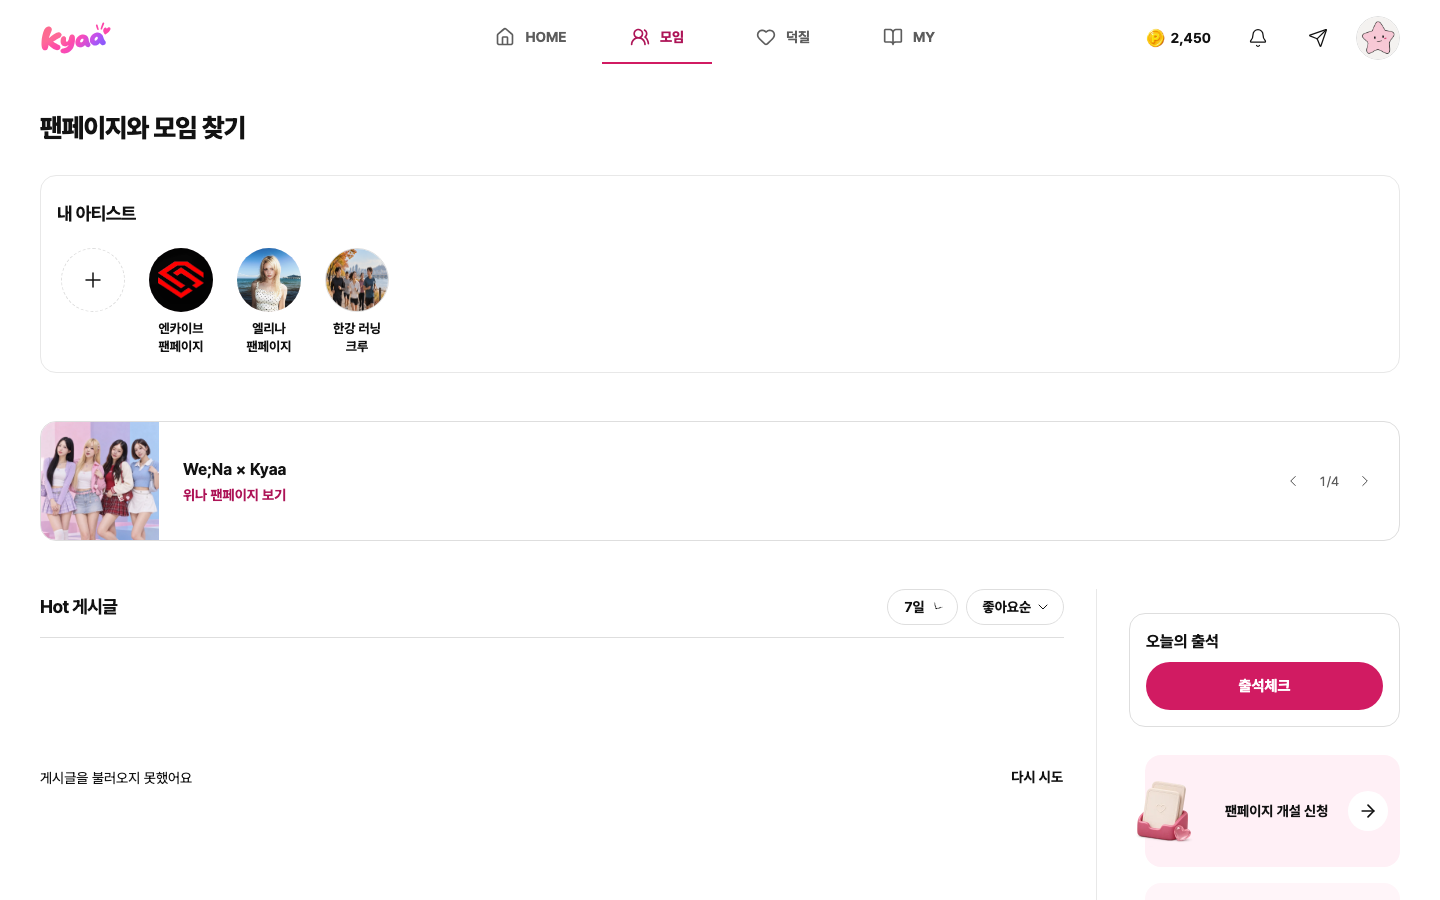
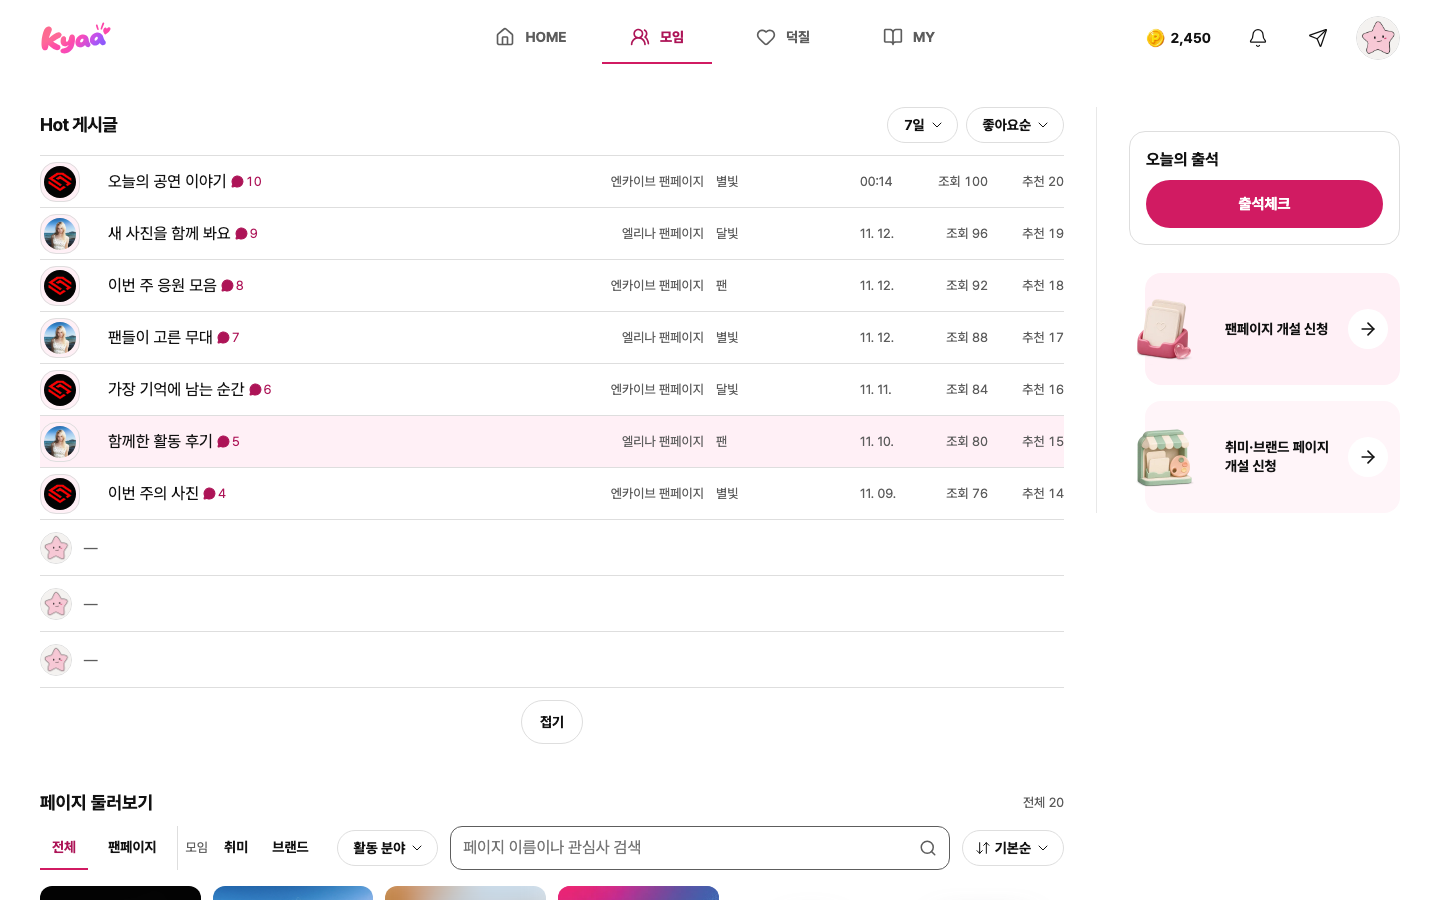
test(ui): capture populated Hot periods and unblock screen

diff --git a/apps/web/e2e/groups-local/main.tsx b/apps/web/e2e/groups-local/main.tsx
@@ -135,6 +135,14 @@ const quizProjection=(status:'open'|'failed'|'passed')=>{
 };
 let qualificationSupplementSubmitted=false,qualificationSupplementAttempts=0;
 const earningFixtures=[{entryKey:'mission:e9400000-0000-4000-8000-000000000001',kind:'mission',activityKey:'mission-1',title:'응원 사진 인증',status:'credited',asset:'fan_point',originalAmount:30,correctionAmount:null,netAmount:30,reason:null,occurredAt:'2026-11-01T09:00:00+09:00',processedAt:'2026-11-01T10:00:00+09:00',activityHref:'/pages/groups/e9200000-0000-4000-8000-000000000001/missions'},{entryKey:'mission:e9400000-0000-4000-8000-000000000002',kind:'mission',activityKey:'mission-2',title:'공연 후기 인증',status:'pending',asset:'fan_point',originalAmount:30,correctionAmount:null,netAmount:null,reason:null,occurredAt:'2026-11-02T09:00:00+09:00',processedAt:null,activityHref:'/pages/groups/e9200000-0000-4000-8000-000000000001/missions'},{entryKey:'activity:e9400000-0000-4000-8000-000000000003',kind:'activity',activityKey:'activity-3',title:'한강 러닝 인증',status:'rejected',asset:'fan_point',originalAmount:20,correctionAmount:null,netAmount:0,reason:'사진에서 활동 내용을 확인하지 못했어요.',occurredAt:'2026-11-02T12:00:00+09:00',processedAt:'2026-11-02T13:00:00+09:00',activityHref:null},{entryKey:'raffle:e9400000-0000-4000-8000-000000000004',kind:'raffle',activityKey:'raffle-4',title:'엔카이브 굿즈 추첨 응모',status:'entered',asset:'ticket',originalAmount:-3,correctionAmount:null,netAmount:-3,reason:null,occurredAt:'2026-11-03T12:00:00+09:00',processedAt:'2026-11-03T12:00:00+09:00',activityHref:null}];
+const hotFixturePosts = Array.from({length:10}, (_,i) => ({
+ source:'fan' as const,id:`e9300000-0000-4000-8000-0000000000${String(i+1).padStart(2,'0')}`,
+ pageRef:i%2?'elina':'nchive',pageName:i%2?'엘리나 팬페이지':'엔카이브 팬페이지',
+ title:['오늘의 공연 이야기','새 사진을 함께 봐요','이번 주 응원 모음','팬들이 고른 무대','가장 기억에 남는 순간','함께한 활동 후기','이번 주의 사진','지난 공연 이야기','한 달의 응원','팬페이지 소식'][i],
+ nickname:['별빛','달빛','팬'][i%3],createdAt:new Date(Date.now()-(i<3?i*3600000:i<7?(i-2)*86400000:(i-5)*5*86400000)).toISOString(),
+ likeCount:20-i,commentCount:10-i,viewCount:100-i*4,asset:null,pageImageUrl:i%2?'/images/groups/elina-pencil.jpg':'/images/groups/nchive-pencil.jpg'
+}));
+let blockedFixtureProfiles=[{profileId:'e9200000-0000-4000-8000-000000000002',closed:false,nickname:'예시 팬',avatarUrl:null,blockedAt:'2026-11-01T00:00:00Z'}];
 const receipts=new Map<string,unknown>();let points=2450,hearts=state==='insufficient'?0:2,tickets=state==='zero-tickets'?0:12,checkedIn=false,adSession:string|null=null;
 const json=(value:unknown,status=200)=>Promise.resolve(Response.json(value,{status})),realFetch=window.fetch.bind(window);
 const groupInvitationFixture=createGroupInvitationFixture({authenticated:query.get('auth')!=='off',failOnce:query.get('state')==='invite-save-failure'});
@@ -143,6 +151,9 @@ const eventOperationsFixture=createEventOperationsFixture(id,query.get('eventOps
 window.fetch=(async(input:RequestInfo|URL,init?:RequestInit)=>{
  const url=new URL(typeof input==='string'?input:input instanceof URL?input.href:input.url,location.origin);
  if(!url.pathname.startsWith('/api/'))return realFetch(input,init);
+ if(query.get('hotFixture')==='1'&&url.pathname==='/api/public/popular-posts'){const period=url.searchParams.get('period')??'week',count=period==='today'?3:period==='month'?10:7;return json({items:hotFixturePosts.slice(0,count),hasMore:false});}
+ if(query.get('s3Preview')==='1'&&url.pathname==='/api/me/social/blocks')return json({profiles:blockedFixtureProfiles});
+ if(query.get('s3Preview')==='1'&&url.pathname.startsWith('/api/me/social/blocks/')&&init?.method==='DELETE'){blockedFixtureProfiles=blockedFixtureProfiles.filter(profile=>profile.profileId!==url.pathname.split('/').at(-1));return json({ok:true});}
  (((window as unknown as {__api?:string[]}).__api??=[])).push(`${url.pathname}${url.search}`);
  if(state==='loading')return new Promise<Response>(()=>{/* review knob: keep every API request pending to capture the loading skeleton */});
  const path=url.pathname,body=init?.body?JSON.parse(String(init.body)):null;

diff --git a/apps/web/e2e/groups-local/s3-s4-captures.md b/apps/web/e2e/groups-local/s3-s4-captures.md
@@ -1,0 +1,5 @@
+# S3·S4 브라우저 검증
+
+`node apps/web/e2e/groups-local/server.mjs`로 로컬 하니스를 시작한 뒤 `apps/web`에서 `node e2e/groups-local/s3-s4-capture.mjs`를 실행합니다. 제품 컴포넌트와 CSS를 사용하며 API 응답은 공개 가능한 합성 예시입니다. 운영 회원이나 운영 게시글 화면이 아닙니다.
+
+Hot 예시 화면은 `hotFixture=1`로 기간별 3·7·10건을 표시합니다. 캡처는 `release-notes/images/2026-11-13-hot-{today,month}-{390,1440}.png`와 `2026-11-12-hot-period-{390,1440}.png`입니다. 차단 목록 예시 화면은 `s3Preview=1`로 한 명의 예시 팬을 표시하며, `2026-11-13-blocked-{390,1440}.png`에 있습니다. 스크립트는 기간별 응답 건수·실제 행·두 칩의 동일한 닫힌 chevron·차단 해제 후 빈 목록을 확인합니다.
